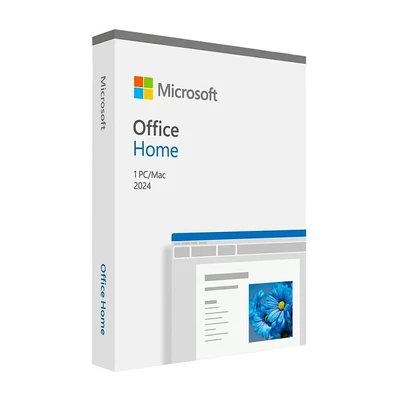
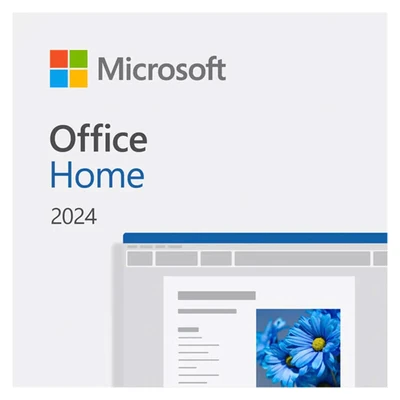
Thin out homepage bestseller grid; refresh Office 2024 Home product image
- css/home.css: "Più venduti" desktop grid goes from 6 columns (one dense
  row) to 3 (two balanced rows of the same 6 products) — larger cards,
  more breathing room, no orphan row.
- asset/media/products/office-2024-home.webp: replaced with the current
  official Microsoft box art, resized to the standard 400×400 used
  everywhere this SKU appears (homepage, suite-office listing, PDP).
- Cache-busting ?v= hashes refreshed on every page referencing either
  asset.

Changed region(s): [[0.24, 0.57, 0.99, 0.99], [0.12, 0.06, 0.78, 0.48], [0.12, 0.51, 0.24, 0.57]]

diff --git a/fr/index.html b/fr/index.html
@@ -39,7 +39,7 @@
     <link rel="stylesheet" href="../fonts/montserrat.css?v=a86a00fd48">
     <link rel="stylesheet" href="../fonts/source-serif.css?v=2793a4ae8e">
     <link rel="stylesheet" href="../css/page.css?v=04cc490a38">
-    <link rel="stylesheet" href="../css/home.css?v=33b5fa8a94">
+    <link rel="stylesheet" href="../css/home.css?v=5f611c0d37">
 <script src="../js/theme-init.js?v=d487584e0d"></script>
     <script type="application/ld+json">
 {"@context":"https://schema.org","@graph":[{"@type":"Organization","@id":"https://aml-store.com/#organization","name":"Aml Store","url":"https://aml-store.com/","logo":{"@type":"ImageObject","url":"https://aml-store.com/logo/logo-header-400.webp"},"email":"Info@amlstore.it","legalName":"Licensoft di Cardelli Antonino","vatID":"IT11461870963","address":{"@type":"PostalAddress","streetAddress":"Via Trento 5/A","postalCode":"20015","addressLocality":"Parabiago","addressRegion":"MI","addressCountry":"IT"},"telephone":"+39 392 558 0413"},{"@type":"WebSite","@id":"https://aml-store.com/#website","url":"https://aml-store.com/","name":"Aml Store","inLanguage":["it","en","fr","de","es"],"publisher":{"@id":"https://aml-store.com/#organization"}},{"@type":"WebPage","@id":"https://aml-store.com/fr/#webpage","url":"https://aml-store.com/fr/","name":"Logiciels authentiques pour particuliers et entreprises | Aml Store","description":"Licences logicielles authentiques pour particuliers, professionnels et entreprises, avec livraison numérique, facturation et assistance dédiée.","isPartOf":{"@id":"https://aml-store.com/#website"},"inLanguage":"fr"},{"@type":"FAQPage","inLanguage":"fr","url":"https://aml-store.com/fr/","mainEntity":[{"@type":"Question","name":"Que recevrai-je exactement après l'achat ?","acceptedAnswer":{"@type":"Answer","text":"Vous recevez un e-mail de livraison numérique avec ce dont vous avez besoin pour utiliser la licence (en général un code et/ou des instructions pratiques, plus les références utiles à la preuve d'achat, selon le contenu réel du message envoyé). La livraison est uniquement numérique : conservez l'e-mail et vérifiez aussi les courriers indésirables / spam si rien n'apparaît dans votre boîte de réception."}},{"@type":"Question","name":"Combien de temps entre le paiement et l'e-mail avec la licence ?","acceptedAnswer":{"@type":"Answer","text":"En règle générale, l'e-mail arrive juste après la confirmation du paiement ; dans de rares cas, il peut falloir quelques minutes de plus pour les vérifications de paiement. Si dans les 30 minutes vous n'avez toujours rien reçu, vérifiez le spam et écrivez à Info@amlstore.it avec le produit acheté et l'e-mail utilisé pour la commande, afin que nous puissions vérifier l'envoi."}},{"@type":"Question","name":"Je n'ai jamais acheté de licence numérique : comment cela fonctionne-t-il du début à la fin ?","acceptedAnswer":{"@type":"Answer","text":"Choisissez le produit, finalisez la commande et le paiement au checkout avec les moyens disponibles — carte, PayPal et portefeuilles numériques (Apple Pay, Google Pay, lorsque activés). Le traitement est assuré en toute sécurité via Stripe. Une fois le paiement confirmé, vous recevez la livraison par e-mail ; pour utiliser la licence, suivez l'e-mail et la fiche produit sur notre site, où vous trouverez les références correspondant à ce titre."}},{"@type":"Question","name":"Le prix est plus bas qu'ailleurs : la licence est-elle conforme ? Pourquoi coûte-t-elle moins cher ?","acceptedAnswer":{"@type":"Answer","text":"Nous vendons des licences numériques décrites sur les fiches produit, avec des prix clairs et des conditions consultables dans les Conditions générales et la Politique de confidentialité avant l'achat. Si vous souhaitez un retour externe, vous pouvez lire les avis publics sur Trustpilot (https://it.trustpilot.com/review/aml-store.com). Pour toute question opérationnelle, écrivez à Info@amlstore.it."}},{"@type":"Question","name":"Où saisir le code et comment installer le logiciel ?","acceptedAnswer":{"@type":"Answer","text":"L'activation et l'installation se font sur les sites et portails officiels de l'éditeur, selon les règles de ce produit. Après l'achat, utilisez les instructions reçues par e-mail et, pour le détail pas à pas, la fiche produit sur notre site. Si quelque chose ne fonctionne pas, écrivez à Info@amlstore.it avec le produit et l'e-mail de commande."}},{"@type":"Question","name":"Comment vous contacter pour un problème de commande, de paiement ou d'activation ?","acceptedAnswer":{"@type":"Answer","text":"Écrivez à Info@amlstore.it : c'est le canal principal indiqué aussi dans le pied de page du site. Dans le message, indiquez le produit, l'e-mail utilisé pour la commande et une brève description du problème ; pour la confidentialité, les conditions et les retours, utilisez les liens du pied de page (Politique de confidentialité, Conditions générales, Retours et remboursements)."}}]}]}
@@ -276,7 +276,7 @@
                 >
                     <a href="office-2024-home" class="product-card-body product-card--link">
                         <div class="product-card-media">
-                            <img src="../asset/media/products/office-2024-home.webp?v=a93041b6f5" width="400" height="400" alt="Office 2024 Home" decoding="async" loading="lazy" class="product-card-img" onerror="this.onerror=null;this.src='../asset/media/product-cover-fallback.webp'">
+                            <img src="../asset/media/products/office-2024-home.webp?v=11395b8a53" width="400" height="400" alt="Office 2024 Home" decoding="async" loading="lazy" class="product-card-img" onerror="this.onerror=null;this.src='../asset/media/product-cover-fallback.webp'">
                         </div>
                         <p class="product-card-name">Office 2024 Home</p>
                         <p class="product-card-blurb">Licence perpétuelle · Word, Excel, PowerPoint · PC/Mac</p>

diff --git a/de/index.html b/de/index.html
@@ -39,7 +39,7 @@
     <link rel="stylesheet" href="../fonts/montserrat.css?v=a86a00fd48">
     <link rel="stylesheet" href="../fonts/source-serif.css?v=2793a4ae8e">
     <link rel="stylesheet" href="../css/page.css?v=04cc490a38">
-    <link rel="stylesheet" href="../css/home.css?v=33b5fa8a94">
+    <link rel="stylesheet" href="../css/home.css?v=5f611c0d37">
 <script src="../js/theme-init.js?v=d487584e0d"></script>
     <script type="application/ld+json">
 {"@context":"https://schema.org","@graph":[{"@type":"Organization","@id":"https://aml-store.com/#organization","name":"Aml Store","url":"https://aml-store.com/","logo":{"@type":"ImageObject","url":"https://aml-store.com/logo/logo-header-400.webp"},"email":"Info@amlstore.it","legalName":"Licensoft di Cardelli Antonino","vatID":"IT11461870963","address":{"@type":"PostalAddress","streetAddress":"Via Trento 5/A","postalCode":"20015","addressLocality":"Parabiago","addressRegion":"MI","addressCountry":"IT"},"telephone":"+39 392 558 0413"},{"@type":"WebSite","@id":"https://aml-store.com/#website","url":"https://aml-store.com/","name":"Aml Store","inLanguage":["it","en","fr","de","es"],"publisher":{"@id":"https://aml-store.com/#organization"}},{"@type":"WebPage","@id":"https://aml-store.com/de/#webpage","url":"https://aml-store.com/de/","name":"Originalsoftware für Privatkunden und Unternehmen | Aml Store","description":"Originale Softwarelizenzen für Privatpersonen, Selbstständige und Unternehmen – mit digitaler Lieferung, Rechnung und persönlichem Support.","isPartOf":{"@id":"https://aml-store.com/#website"},"inLanguage":"de"},{"@type":"FAQPage","inLanguage":"de","url":"https://aml-store.com/de/","mainEntity":[{"@type":"Question","name":"Was erhalte ich genau nach dem Kauf?","acceptedAnswer":{"@type":"Answer","text":"Sie erhalten eine E-Mail mit der digitalen Lieferung mit allem, was Sie zur Nutzung der Lizenz brauchen (in der Regel ein Produktschlüssel und/oder praktische Anweisungen sowie hilfreiche Nachweise zum Kauf, gemäß dem tatsächlichen Inhalt der Nachricht). Die Lieferung erfolgt nur digital: Bewahren Sie die E-Mail auf und prüfen Sie bei Bedarf auch Spam/Junk, falls nichts im Posteingang ankommt."}},{"@type":"Question","name":"Wie lange dauert es vom Zahlungseingang bis zur E-Mail mit der Lizenz?","acceptedAnswer":{"@type":"Answer","text":"In der Regel trifft die E-Mail kurz nach Zahlungsbestätigung ein; in seltenen Fällen können einige zusätzliche Minuten für Zahlungsprüfungen nötig sein. Wenn Sie innerhalb von 30 Minuten noch nichts erhalten haben, prüfen Sie Spam/Junk und schreiben Sie an Info@amlstore.it mit gekauftem Produkt und der für die Bestellung genutzten E-Mail-Adresse, damit wir den Versand prüfen können."}},{"@type":"Question","name":"Ich habe noch nie eine digitale Lizenz gekauft: wie läuft das von Anfang bis Ende?","acceptedAnswer":{"@type":"Answer","text":"Wählen Sie das Produkt und schließen Sie Bestellung und Zahlung im Checkout mit den verfügbaren Methoden ab — Karte, PayPal und digitale Wallets (Apple Pay, Google Pay, wo aktiviert). Die Verarbeitung erfolgt sicher über Stripe. Nach bestätigter Zahlung erhalten Sie die Lieferung per E-Mail; zur Nutzung der Lizenz folgen Sie der E-Mail und der Produktseite auf unserer Website, wo Sie die passenden Hinweise zu diesem Titel finden."}},{"@type":"Question","name":"Der Preis ist niedriger als woanders: ist die Lizenz in Ordnung? Warum kostet sie weniger?","acceptedAnswer":{"@type":"Answer","text":"Wir verkaufen digitale Lizenzen, die auf den Produktseiten beschrieben sind, mit klaren Preisen und Konditionen in den Allgemeinen Geschäftsbedingungen und der Datenschutzerklärung vor dem Kauf. Wenn Sie einen externen Eindruck möchten, finden Sie öffentliche Bewertungen auf Trustpilot (https://it.trustpilot.com/review/aml-store.com). Für operative Fragen schreiben Sie an Info@amlstore.it."}},{"@type":"Question","name":"Wo gebe ich den Code ein und wie installiere ich die Software?","acceptedAnswer":{"@type":"Answer","text":"Aktivierung und Installation erfolgen über die offiziellen Websites und Portale des Anbieters, gemäß den Regeln dieses Produkts. Nach dem Kauf nutzen Sie die Anweisungen in der E-Mail und für Schritt-für-Schritt-Details die Produktseite auf unserer Website. Wenn etwas nicht funktioniert, schreiben Sie an Info@amlstore.it mit Produkt und Bestell-E-Mail."}},{"@type":"Question","name":"Wie erreiche ich Sie bei Fragen zu Bestellung, Zahlung oder Aktivierung?","acceptedAnswer":{"@type":"Answer","text":"Schreiben Sie an Info@amlstore.it: das ist der Hauptkanal, der auch im Footer der Website steht. Nennen Sie Produkt, Bestell-E-Mail-Adresse und eine kurze Problembeschreibung; zu Datenschutz, Bedingungen und Rückgabe nutzen Sie die Footer-Links (Datenschutz, Allgemeine Geschäftsbedingungen, Rückgabe und Erstattung)."}}]}]}
@@ -276,7 +276,7 @@
                 >
                     <a href="office-2024-home" class="product-card-body product-card--link">
                         <div class="product-card-media">
-                            <img src="../asset/media/products/office-2024-home.webp?v=a93041b6f5" width="400" height="400" alt="Office 2024 Home" decoding="async" loading="lazy" class="product-card-img" onerror="this.onerror=null;this.src='../asset/media/product-cover-fallback.webp'">
+                            <img src="../asset/media/products/office-2024-home.webp?v=11395b8a53" width="400" height="400" alt="Office 2024 Home" decoding="async" loading="lazy" class="product-card-img" onerror="this.onerror=null;this.src='../asset/media/product-cover-fallback.webp'">
                         </div>
                         <p class="product-card-name">Office 2024 Home</p>
                         <p class="product-card-blurb">Dauerlizenz · Word, Excel, PowerPoint · PC/Mac</p>

diff --git a/es/index.html b/es/index.html
@@ -39,7 +39,7 @@
     <link rel="stylesheet" href="../fonts/montserrat.css?v=a86a00fd48">
     <link rel="stylesheet" href="../fonts/source-serif.css?v=2793a4ae8e">
     <link rel="stylesheet" href="../css/page.css?v=04cc490a38">
-    <link rel="stylesheet" href="../css/home.css?v=33b5fa8a94">
+    <link rel="stylesheet" href="../css/home.css?v=5f611c0d37">
 <script src="../js/theme-init.js?v=d487584e0d"></script>
     <script type="application/ld+json">
 {"@context":"https://schema.org","@graph":[{"@type":"Organization","@id":"https://aml-store.com/#organization","name":"Aml Store","url":"https://aml-store.com/","logo":{"@type":"ImageObject","url":"https://aml-store.com/logo/logo-header-400.webp"},"email":"Info@amlstore.it","legalName":"Licensoft di Cardelli Antonino","vatID":"IT11461870963","address":{"@type":"PostalAddress","streetAddress":"Via Trento 5/A","postalCode":"20015","addressLocality":"Parabiago","addressRegion":"MI","addressCountry":"IT"},"telephone":"+39 392 558 0413"},{"@type":"WebSite","@id":"https://aml-store.com/#website","url":"https://aml-store.com/","name":"Aml Store","inLanguage":["it","en","fr","de","es"],"publisher":{"@id":"https://aml-store.com/#organization"}},{"@type":"WebPage","@id":"https://aml-store.com/es/#webpage","url":"https://aml-store.com/es/","name":"Software original para particulares y empresas | Aml Store","description":"Licencias de software originales para particulares, profesionales y empresas, con entrega digital, factura y asistencia especializada.","isPartOf":{"@id":"https://aml-store.com/#website"},"inLanguage":"es"},{"@type":"FAQPage","inLanguage":"es","url":"https://aml-store.com/es/","mainEntity":[{"@type":"Question","name":"¿Qué recibo exactamente después de la compra?","acceptedAnswer":{"@type":"Answer","text":"Recibes un correo electrónico de entrega digital con lo necesario para usar la licencia (normalmente un código y/o instrucciones prácticas, además de referencias útiles para acreditar la compra, según el contenido real del mensaje enviado). La entrega es solo digital: conserva el correo y revisa también spam/correo no deseado si no ves nada en la bandeja de entrada."}},{"@type":"Question","name":"¿Cuánto tarda entre el pago y el correo con la licencia?","acceptedAnswer":{"@type":"Answer","text":"Por lo general, el correo llega justo después de confirmar el pago; en casos puntuales pueden necesitarse unos minutos más por verificaciones del pago. Si en 30 minutos aún no has recibido nada, revisa spam/correo no deseado y escribe a Info@amlstore.it con el producto comprado y el correo usado en el pedido, para que podamos comprobar el envío."}},{"@type":"Question","name":"Nunca he comprado una licencia digital: ¿cómo funciona de principio a fin?","acceptedAnswer":{"@type":"Answer","text":"Elige el producto, completa el pedido y el pago en el checkout con los métodos disponibles — tarjeta, PayPal y monederos digitales (Apple Pay, Google Pay, cuando estén activados). El procesamiento se realiza de forma segura con Stripe. Tras confirmar el pago recibes la entrega por correo; para usar la licencia sigue el correo y la ficha de producto en nuestro sitio, donde encontrarás referencias coherentes con ese título."}},{"@type":"Question","name":"El precio es más bajo que en otros sitios: ¿la licencia es correcta? ¿Por qué cuesta menos?","acceptedAnswer":{"@type":"Answer","text":"Vendemos licencias digitales descritas en las fichas de producto, con precios claros y condiciones consultables en los Términos y condiciones y la Política de privacidad antes de comprar. Si quieres una referencia externa, puedes leer reseñas públicas en Trustpilot (https://it.trustpilot.com/review/aml-store.com). Para dudas operativas, escribe a Info@amlstore.it."}},{"@type":"Question","name":"¿Dónde introduzco el código y cómo instalo el software?","acceptedAnswer":{"@type":"Answer","text":"La activación y la instalación se realizan en los sitios y portales oficiales del fabricante, según las reglas de ese producto. Después de la compra usa las instrucciones del correo y, para el detalle paso a paso, la ficha de producto en nuestro sitio. Si algo no funciona, escribe a Info@amlstore.it con el producto y el correo del pedido."}},{"@type":"Question","name":"¿Cómo os contacto por problemas con pedido, pago o activación?","acceptedAnswer":{"@type":"Answer","text":"Escribe a Info@amlstore.it: es el canal principal indicado también en el pie de página del sitio. Incluye producto, correo usado en el pedido y una breve descripción del problema; para privacidad, condiciones y devoluciones usa los enlaces del pie (Política de privacidad, Términos y condiciones, Devoluciones y reembolsos)."}}]}]}
@@ -276,7 +276,7 @@
                 >
                     <a href="office-2024-home" class="product-card-body product-card--link">
                         <div class="product-card-media">
-                            <img src="../asset/media/products/office-2024-home.webp?v=a93041b6f5" width="400" height="400" alt="Office 2024 Home" decoding="async" loading="lazy" class="product-card-img" onerror="this.onerror=null;this.src='../asset/media/product-cover-fallback.webp'">
+                            <img src="../asset/media/products/office-2024-home.webp?v=11395b8a53" width="400" height="400" alt="Office 2024 Home" decoding="async" loading="lazy" class="product-card-img" onerror="this.onerror=null;this.src='../asset/media/product-cover-fallback.webp'">
                         </div>
                         <p class="product-card-name">Office 2024 Home</p>
                         <p class="product-card-blurb">Licencia perpetua · Word, Excel, PowerPoint · PC/Mac</p>

diff --git a/it/index.html b/it/index.html
@@ -40,7 +40,7 @@
     <link rel="stylesheet" href="../fonts/montserrat.css?v=a86a00fd48">
     <link rel="stylesheet" href="../fonts/source-serif.css?v=2793a4ae8e">
     <link rel="stylesheet" href="../css/page.css?v=04cc490a38">
-    <link rel="stylesheet" href="../css/home.css?v=33b5fa8a94">
+    <link rel="stylesheet" href="../css/home.css?v=5f611c0d37">
 <script src="../js/theme-init.js?v=d487584e0d"></script>
     <script type="application/ld+json">
 {"@context":"https://schema.org","@graph":[{"@type":"Organization","@id":"https://aml-store.com/#organization","name":"Aml Store","url":"https://aml-store.com/","logo":{"@type":"ImageObject","url":"https://aml-store.com/logo/logo-header-400.webp"},"email":"Info@amlstore.it","legalName":"Licensoft di Cardelli Antonino","vatID":"IT11461870963","address":{"@type":"PostalAddress","streetAddress":"Via Trento 5/A","postalCode":"20015","addressLocality":"Parabiago","addressRegion":"MI","addressCountry":"IT"},"telephone":"+39 392 558 0413"},{"@type":"WebSite","@id":"https://aml-store.com/#website","url":"https://aml-store.com/","name":"Aml Store","inLanguage":["it","en","fr","de","es"],"publisher":{"@id":"https://aml-store.com/#organization"}},{"@type":"WebPage","@id":"https://aml-store.com/it/#webpage","url":"https://aml-store.com/it/","name":"Software originale per privati e aziende | Aml Store","description":"Licenze software originali per privati, professionisti e aziende, con consegna digitale, fattura e assistenza dedicata.","isPartOf":{"@id":"https://aml-store.com/#website"},"inLanguage":"it"},{"@type":"FAQPage","inLanguage":"it","url":"https://aml-store.com/it/","mainEntity":[{"@type":"Question","name":"Cosa ricevo esattamente dopo l'acquisto?","acceptedAnswer":{"@type":"Answer","text":"Ricevi una email di consegna digitale con quanto serve per usare la licenza (in genere codice e/o istruzioni operative, più i riferimenti utili alla prova d'acquisto, come da contenuto effettivo del messaggio inviato). La consegna è solo digitale: conserva la mail e controlla anche spam/posta indesiderata se non vedi nulla in arrivo."}},{"@type":"Question","name":"Quanto tempo passa tra il pagamento e l'email con la licenza?","acceptedAnswer":{"@type":"Answer","text":"Di norma l'email arriva subito dopo la conferma del pagamento; in rari casi possono servire alcuni minuti in più per le verifiche del pagamento. Se entro 30 minuti non hai ricevuto nulla, controlla anche spam/posta indesiderata e scrivi a Info@amlstore.it con prodotto acquistato e email usata per l'ordine, così possiamo verificare l'invio."}},{"@type":"Question","name":"Non ho mai acquistato una licenza digitale: come funziona dall'inizio alla fine?","acceptedAnswer":{"@type":"Answer","text":"Scegli il prodotto, completa l'ordine e il pagamento al checkout con i metodi disponibili — carta, PayPal e wallet digitali (Apple Pay, Google Pay, dove abilitati). L'elaborazione dei pagamenti è gestita in modo sicuro tramite Stripe. A pagamento confermato ricevi la consegna via email; per l'uso effettivo della licenza segui email e scheda prodotto sul nostro sito, dove trovi anche i riferimenti coerenti con quel titolo."}},{"@type":"Question","name":"Il prezzo è più basso che altrove: la licenza è regolare? Perché costa meno?","acceptedAnswer":{"@type":"Answer","text":"Vendiamo licenze digitali descritte nelle schede prodotto, con prezzi chiari e condizioni consultabili in Termini e Condizioni e Privacy prima dell'acquisto. Se vuoi un riscontro esterno, puoi leggere le recensioni pubbliche su Trustpilot (https://it.trustpilot.com/review/aml-store.com). Per dubbi operativi, scrivi a Info@amlstore.it."}},{"@type":"Question","name":"Dove inserisco il codice e come installo il software?","acceptedAnswer":{"@type":"Answer","text":"L'attivazione e l'installazione avvengono sui siti e portali ufficiali del produttore, secondo le regole di quel prodotto. Dopo l'acquisto usa le istruzioni ricevute via email e, per il dettaglio passo passo, la scheda prodotto sul nostro sito. Se qualcosa non funziona, scrivi a Info@amlstore.it con prodotto e email d'ordine."}},{"@type":"Question","name":"Come vi contatto per problemi con ordine, pagamento o attivazione?","acceptedAnswer":{"@type":"Answer","text":"Scrivi a Info@amlstore.it: è il canale principale indicato anche nel footer del sito. Nel messaggio indica prodotto, email usata per l'ordine e una breve descrizione del problema; per privacy, termini e resi usa i link nel footer (Privacy, Termini e Condizioni, Resi e Rimborsi)."}}]}]}
@@ -277,7 +277,7 @@
                 >
                     <a href="office-2024-home" class="product-card-body product-card--link">
                         <div class="product-card-media">
-                            <img src="../asset/media/products/office-2024-home.webp?v=a93041b6f5" width="400" height="400" alt="Office 2024 Home" decoding="async" loading="lazy" class="product-card-img" onerror="this.onerror=null;this.src='../asset/media/product-cover-fallback.webp'">
+                            <img src="../asset/media/products/office-2024-home.webp?v=11395b8a53" width="400" height="400" alt="Office 2024 Home" decoding="async" loading="lazy" class="product-card-img" onerror="this.onerror=null;this.src='../asset/media/product-cover-fallback.webp'">
                         </div>
                         <p class="product-card-name">Office 2024 Home</p>
                         <p class="product-card-blurb">Licenza perpetua · Word, Excel, PowerPoint · PC/Mac</p>

diff --git a/en/index.html b/en/index.html
@@ -40,7 +40,7 @@
     <link rel="stylesheet" href="../fonts/montserrat.css?v=a86a00fd48">
     <link rel="stylesheet" href="../fonts/source-serif.css?v=2793a4ae8e">
     <link rel="stylesheet" href="../css/page.css?v=04cc490a38">
-    <link rel="stylesheet" href="../css/home.css?v=33b5fa8a94">
+    <link rel="stylesheet" href="../css/home.css?v=5f611c0d37">
 <script src="../js/theme-init.js?v=d487584e0d"></script>
     <script type="application/ld+json">
 {"@context":"https://schema.org","@graph":[{"@type":"Organization","@id":"https://aml-store.com/#organization","name":"Aml Store","url":"https://aml-store.com/","logo":{"@type":"ImageObject","url":"https://aml-store.com/logo/logo-header-400.webp"},"email":"Info@amlstore.it","legalName":"Licensoft di Cardelli Antonino","vatID":"IT11461870963","address":{"@type":"PostalAddress","streetAddress":"Via Trento 5/A","postalCode":"20015","addressLocality":"Parabiago","addressRegion":"MI","addressCountry":"IT"},"telephone":"+39 392 558 0413"},{"@type":"WebSite","@id":"https://aml-store.com/#website","url":"https://aml-store.com/","name":"Aml Store","inLanguage":["it","en","fr","de","es"],"publisher":{"@id":"https://aml-store.com/#organization"}},{"@type":"WebPage","@id":"https://aml-store.com/en/#webpage","url":"https://aml-store.com/en/","name":"Genuine software for individuals and businesses | Aml Store","description":"Genuine software licences for individuals, professionals and businesses, with digital delivery, invoicing and dedicated support.","isPartOf":{"@id":"https://aml-store.com/#website"},"inLanguage":"en"},{"@type":"FAQPage","inLanguage":"en","url":"https://aml-store.com/en/","mainEntity":[{"@type":"Question","name":"What exactly do I receive after purchase?","acceptedAnswer":{"@type":"Answer","text":"You receive a digital delivery email with what you need to use the licence (typically a product code and/or practical instructions, plus useful purchase references, as shown in the message we send). Delivery is digital only: keep the email and check spam/junk if nothing appears in your inbox."}},{"@type":"Question","name":"How long until I receive the email with the licence?","acceptedAnswer":{"@type":"Answer","text":"Usually the email arrives shortly after payment is confirmed; in rare cases payment checks may add a few more minutes. If you still haven't received anything within 30 minutes, check spam/junk and email Info@amlstore.it with the product purchased and the order email address so we can verify delivery."}},{"@type":"Question","name":"I've never bought a digital licence: how does it work from start to finish?","acceptedAnswer":{"@type":"Answer","text":"Choose your product, complete checkout and payment using the options available at checkout — card, PayPal and digital wallets (Apple Pay, Google Pay, where enabled). Processing is handled securely with Stripe. Once payment is confirmed you receive digital delivery by email; to use the licence follow both the email and the product page on our site, where you'll find references that match that product."}},{"@type":"Question","name":"The price is lower than elsewhere: is the licence genuine? Why does it cost less?","acceptedAnswer":{"@type":"Answer","text":"We sell digital licences described on our product pages, with clear prices and terms you can read in Terms and Conditions and Privacy before purchase. If you want an external reference, you can read public reviews on Trustpilot (https://it.trustpilot.com/review/aml-store.com). For operational questions, email Info@amlstore.it."}},{"@type":"Question","name":"Where do I enter the code and how do I install the software?","acceptedAnswer":{"@type":"Answer","text":"Activation and installation take place on the vendor's official websites and portals, according to that product's rules. After purchase use the instructions in your email and, for step-by-step detail, the product page on our site. If something doesn't work, email Info@amlstore.it with the product and order email."}},{"@type":"Question","name":"How do I contact you about order, payment or activation issues?","acceptedAnswer":{"@type":"Answer","text":"Email Info@amlstore.it: it's the main channel shown in the site footer too. Include product, order email address and a short description; for privacy, terms and refunds use the footer links (Privacy, Terms and Conditions, Returns and refunds)."}}]}]}
@@ -277,7 +277,7 @@
                 >
                     <a href="office-2024-home" class="product-card-body product-card--link">
                         <div class="product-card-media">
-                            <img src="../asset/media/products/office-2024-home.webp?v=a93041b6f5" width="400" height="400" alt="Office 2024 Home" decoding="async" loading="lazy" class="product-card-img" onerror="this.onerror=null;this.src='../asset/media/product-cover-fallback.webp'">
+                            <img src="../asset/media/products/office-2024-home.webp?v=11395b8a53" width="400" height="400" alt="Office 2024 Home" decoding="async" loading="lazy" class="product-card-img" onerror="this.onerror=null;this.src='../asset/media/product-cover-fallback.webp'">
                         </div>
                         <p class="product-card-name">Office 2024 Home</p>
                         <p class="product-card-blurb">Perpetual licence · Word, Excel, PowerPoint · PC/Mac</p>

diff --git a/it/suite-office.html b/it/suite-office.html
@@ -24,7 +24,7 @@
     <meta property="og:image" content="https://aml-store.com/asset/media/products/microsoft-365-personal.webp">
     <link rel="stylesheet" href="../fonts/montserrat.css?v=a86a00fd48">
     <link rel="stylesheet" href="../css/page.css?v=04cc490a38">
-    <link rel="stylesheet" href="../css/home.css?v=33b5fa8a94">
+    <link rel="stylesheet" href="../css/home.css?v=5f611c0d37">
     <script src="../js/theme-init.js?v=d487584e0d"></script>
     <script type="application/ld+json">
     {"@context":"https://schema.org","@type":"CollectionPage","name":"Suite Office","description":"Office perpetuo, app standalone e strumenti di produttività Microsoft.","url":"https://aml-store.com/it/suite-office","inLanguage":"it","isPartOf":{"@type":"WebSite","name":"Aml Store","url":"https://aml-store.com/"}}
@@ -129,7 +129,7 @@
                 >
                     <a href="office-2024-home.html" class="product-card-body product-card--link">
                         <div class="product-card-media">
-                            <img src="../asset/media/products/office-2024-home.webp?v=a93041b6f5" width="400" height="400" alt="Office 2024 Home" decoding="async" class="product-card-img" onerror="this.onerror=null;this.src='../asset/media/product-cover-fallback.webp'">
+                            <img src="../asset/media/products/office-2024-home.webp?v=11395b8a53" width="400" height="400" alt="Office 2024 Home" decoding="async" class="product-card-img" onerror="this.onerror=null;this.src='../asset/media/product-cover-fallback.webp'">
                         </div>
                         <p class="product-card-name">Office 2024 Home</p>
                         <p class="product-card-blurb">Licenza ESD · setup.office.com</p>

diff --git a/en/suite-office.html b/en/suite-office.html
@@ -24,7 +24,7 @@
     <meta property="og:image" content="https://aml-store.com/asset/media/products/microsoft-365-personal.webp">
     <link rel="stylesheet" href="../fonts/montserrat.css?v=a86a00fd48">
     <link rel="stylesheet" href="../css/page.css?v=04cc490a38">
-    <link rel="stylesheet" href="../css/home.css?v=33b5fa8a94">
+    <link rel="stylesheet" href="../css/home.css?v=5f611c0d37">
     <script src="../js/theme-init.js?v=d487584e0d"></script>
     <script type="application/ld+json">
     {"@context":"https://schema.org","@type":"CollectionPage","name":"Office suite","description":"Perpetual Office, standalone apps and Microsoft productivity tools.","url":"https://aml-store.com/en/suite-office","inLanguage":"en","isPartOf":{"@type":"WebSite","name":"Aml Store","url":"https://aml-store.com/"}}
@@ -129,7 +129,7 @@
                 >
                     <a href="office-2024-home.html" class="product-card-body product-card--link">
                         <div class="product-card-media">
-                            <img src="../asset/media/products/office-2024-home.webp?v=a93041b6f5" width="400" height="400" alt="Office 2024 Home" decoding="async" class="product-card-img" onerror="this.onerror=null;this.src='../asset/media/product-cover-fallback.webp'">
+                            <img src="../asset/media/products/office-2024-home.webp?v=11395b8a53" width="400" height="400" alt="Office 2024 Home" decoding="async" class="product-card-img" onerror="this.onerror=null;this.src='../asset/media/product-cover-fallback.webp'">
                         </div>
                         <p class="product-card-name">Office 2024 Home</p>
                         <p class="product-card-blurb">ESD licence · setup.office.com</p>

diff --git a/es/suite-office.html b/es/suite-office.html
@@ -24,7 +24,7 @@
     <meta property="og:image" content="https://aml-store.com/asset/media/products/microsoft-365-personal.webp">
     <link rel="stylesheet" href="../fonts/montserrat.css?v=a86a00fd48">
     <link rel="stylesheet" href="../css/page.css?v=04cc490a38">
-    <link rel="stylesheet" href="../css/home.css?v=33b5fa8a94">
+    <link rel="stylesheet" href="../css/home.css?v=5f611c0d37">
     <script src="../js/theme-init.js?v=d487584e0d"></script>
     <script type="application/ld+json">
     {"@context":"https://schema.org","@type":"CollectionPage","name":"Suite Office","description":"Office perpetuo, apps independientes y productividad Microsoft.","url":"https://aml-store.com/es/suite-office","inLanguage":"es","isPartOf":{"@type":"WebSite","name":"Aml Store","url":"https://aml-store.com/"}}
@@ -129,7 +129,7 @@
                 >
                     <a href="office-2024-home.html" class="product-card-body product-card--link">
                         <div class="product-card-media">
-                            <img src="../asset/media/products/office-2024-home.webp?v=a93041b6f5" width="400" height="400" alt="Office 2024 Home" decoding="async" class="product-card-img" onerror="this.onerror=null;this.src='../asset/media/product-cover-fallback.webp'">
+                            <img src="../asset/media/products/office-2024-home.webp?v=11395b8a53" width="400" height="400" alt="Office 2024 Home" decoding="async" class="product-card-img" onerror="this.onerror=null;this.src='../asset/media/product-cover-fallback.webp'">
                         </div>
                         <p class="product-card-name">Office 2024 Home</p>
                         <p class="product-card-blurb">Licencia ESD · setup.office.com</p>

diff --git a/fr/suite-office.html b/fr/suite-office.html
@@ -24,7 +24,7 @@
     <meta property="og:image" content="https://aml-store.com/asset/media/products/microsoft-365-personal.webp">
     <link rel="stylesheet" href="../fonts/montserrat.css?v=a86a00fd48">
     <link rel="stylesheet" href="../css/page.css?v=04cc490a38">
-    <link rel="stylesheet" href="../css/home.css?v=33b5fa8a94">
+    <link rel="stylesheet" href="../css/home.css?v=5f611c0d37">
     <script src="../js/theme-init.js?v=d487584e0d"></script>
     <script type="application/ld+json">
     {"@context":"https://schema.org","@type":"CollectionPage","name":"Suite Office","description":"Office perpétuel, applications autonomes et outils Microsoft.","url":"https://aml-store.com/fr/suite-office","inLanguage":"fr","isPartOf":{"@type":"WebSite","name":"Aml Store","url":"https://aml-store.com/"}}
@@ -129,7 +129,7 @@
                 >
                     <a href="office-2024-home.html" class="product-card-body product-card--link">
                         <div class="product-card-media">
-                            <img src="../asset/media/products/office-2024-home.webp?v=a93041b6f5" width="400" height="400" alt="Office 2024 Home" decoding="async" class="product-card-img" onerror="this.onerror=null;this.src='../asset/media/product-cover-fallback.webp'">
+                            <img src="../asset/media/products/office-2024-home.webp?v=11395b8a53" width="400" height="400" alt="Office 2024 Home" decoding="async" class="product-card-img" onerror="this.onerror=null;this.src='../asset/media/product-cover-fallback.webp'">
                         </div>
                         <p class="product-card-name">Office 2024 Home</p>
                         <p class="product-card-blurb">Licence ESD · setup.office.com</p>

diff --git a/de/suite-office.html b/de/suite-office.html
@@ -24,7 +24,7 @@
     <meta property="og:image" content="https://aml-store.com/asset/media/products/microsoft-365-personal.webp">
     <link rel="stylesheet" href="../fonts/montserrat.css?v=a86a00fd48">
     <link rel="stylesheet" href="../css/page.css?v=04cc490a38">
-    <link rel="stylesheet" href="../css/home.css?v=33b5fa8a94">
+    <link rel="stylesheet" href="../css/home.css?v=5f611c0d37">
     <script src="../js/theme-init.js?v=d487584e0d"></script>
     <script type="application/ld+json">
     {"@context":"https://schema.org","@type":"CollectionPage","name":"Office-Suite","description":"Office-Dauerlizenzen, Einzelapps und Microsoft-Produktivität.","url":"https://aml-store.com/de/suite-office","inLanguage":"de","isPartOf":{"@type":"WebSite","name":"Aml Store","url":"https://aml-store.com/"}}
@@ -129,7 +129,7 @@
                 >
                     <a href="office-2024-home.html" class="product-card-body product-card--link">
                         <div class="product-card-media">
-                            <img src="../asset/media/products/office-2024-home.webp?v=a93041b6f5" width="400" height="400" alt="Office 2024 Home" decoding="async" class="product-card-img" onerror="this.onerror=null;this.src='../asset/media/product-cover-fallback.webp'">
+                            <img src="../asset/media/products/office-2024-home.webp?v=11395b8a53" width="400" height="400" alt="Office 2024 Home" decoding="async" class="product-card-img" onerror="this.onerror=null;this.src='../asset/media/product-cover-fallback.webp'">
                         </div>
                         <p class="product-card-name">Office 2024 Home</p>
                         <p class="product-card-blurb">ESD-Lizenz · setup.office.com</p>

diff --git a/fr/office-2024-home.html b/fr/office-2024-home.html
@@ -133,7 +133,7 @@
     <script src="../js/consent-init.js?v=1a2366909c"></script>
     <link rel="icon" href="../favicon/favicon.png?v=3bfa4181d2" type="image/png">
     <link rel="apple-touch-icon" href="../favicon/apple-touch-icon.png?v=998f6e4af4">
-    <link rel="preload" as="image" href="../asset/media/products/office-2024-home.webp?v=a93041b6f5" fetchpriority="high" type="image/webp">
+    <link rel="preload" as="image" href="../asset/media/products/office-2024-home.webp?v=11395b8a53" fetchpriority="high" type="image/webp">
     <link rel="stylesheet" href="../fonts/montserrat.css?v=a86a00fd48">
     <link rel="stylesheet" href="../css/page.css?v=04cc490a38">
     <link rel="stylesheet" href="../css/product.css?v=d8883bbd23">
@@ -178,7 +178,7 @@
 
                 <div class="pdp-hero__split">
                     <figure class="pdp-media">
-                        <img class="pdp-media__img product-cover-img" src="../asset/media/products/office-2024-home.webp?v=a93041b6f5" width="400" height="400" alt="Office 2024 Home" fetchpriority="high" decoding="async">
+                        <img class="pdp-media__img product-cover-img" src="../asset/media/products/office-2024-home.webp?v=11395b8a53" width="400" height="400" alt="Office 2024 Home" fetchpriority="high" decoding="async">
                     </figure>
                     <div class="pdp-hero__text">
                         <p class="v2-hero__desc">Suite Office 2024 pour un usage domestique : Word, Excel et PowerPoint sur PC ou Mac, licence numérique originale et livraison du code par e-mail en quelques minutes.</p>

diff --git a/de/office-2024-home.html b/de/office-2024-home.html
@@ -133,7 +133,7 @@
     <script src="../js/consent-init.js?v=1a2366909c"></script>
     <link rel="icon" href="../favicon/favicon.png?v=3bfa4181d2" type="image/png">
     <link rel="apple-touch-icon" href="../favicon/apple-touch-icon.png?v=998f6e4af4">
-    <link rel="preload" as="image" href="../asset/media/products/office-2024-home.webp?v=a93041b6f5" fetchpriority="high" type="image/webp">
+    <link rel="preload" as="image" href="../asset/media/products/office-2024-home.webp?v=11395b8a53" fetchpriority="high" type="image/webp">
     <link rel="stylesheet" href="../fonts/montserrat.css?v=a86a00fd48">
     <link rel="stylesheet" href="../css/page.css?v=04cc490a38">
     <link rel="stylesheet" href="../css/product.css?v=d8883bbd23">
@@ -178,7 +178,7 @@
 
                 <div class="pdp-hero__split">
                     <figure class="pdp-media">
-                        <img class="pdp-media__img product-cover-img" src="../asset/media/products/office-2024-home.webp?v=a93041b6f5" width="400" height="400" alt="Office 2024 Home" fetchpriority="high" decoding="async">
+                        <img class="pdp-media__img product-cover-img" src="../asset/media/products/office-2024-home.webp?v=11395b8a53" width="400" height="400" alt="Office 2024 Home" fetchpriority="high" decoding="async">
                     </figure>
                     <div class="pdp-hero__text">
                         <p class="v2-hero__desc">Office-2024-Suite für den Heimgebrauch: Word, Excel und PowerPoint auf PC oder Mac, originale digitale Lizenz und Key-Zustellung per E-Mail in wenigen Minuten.</p>
